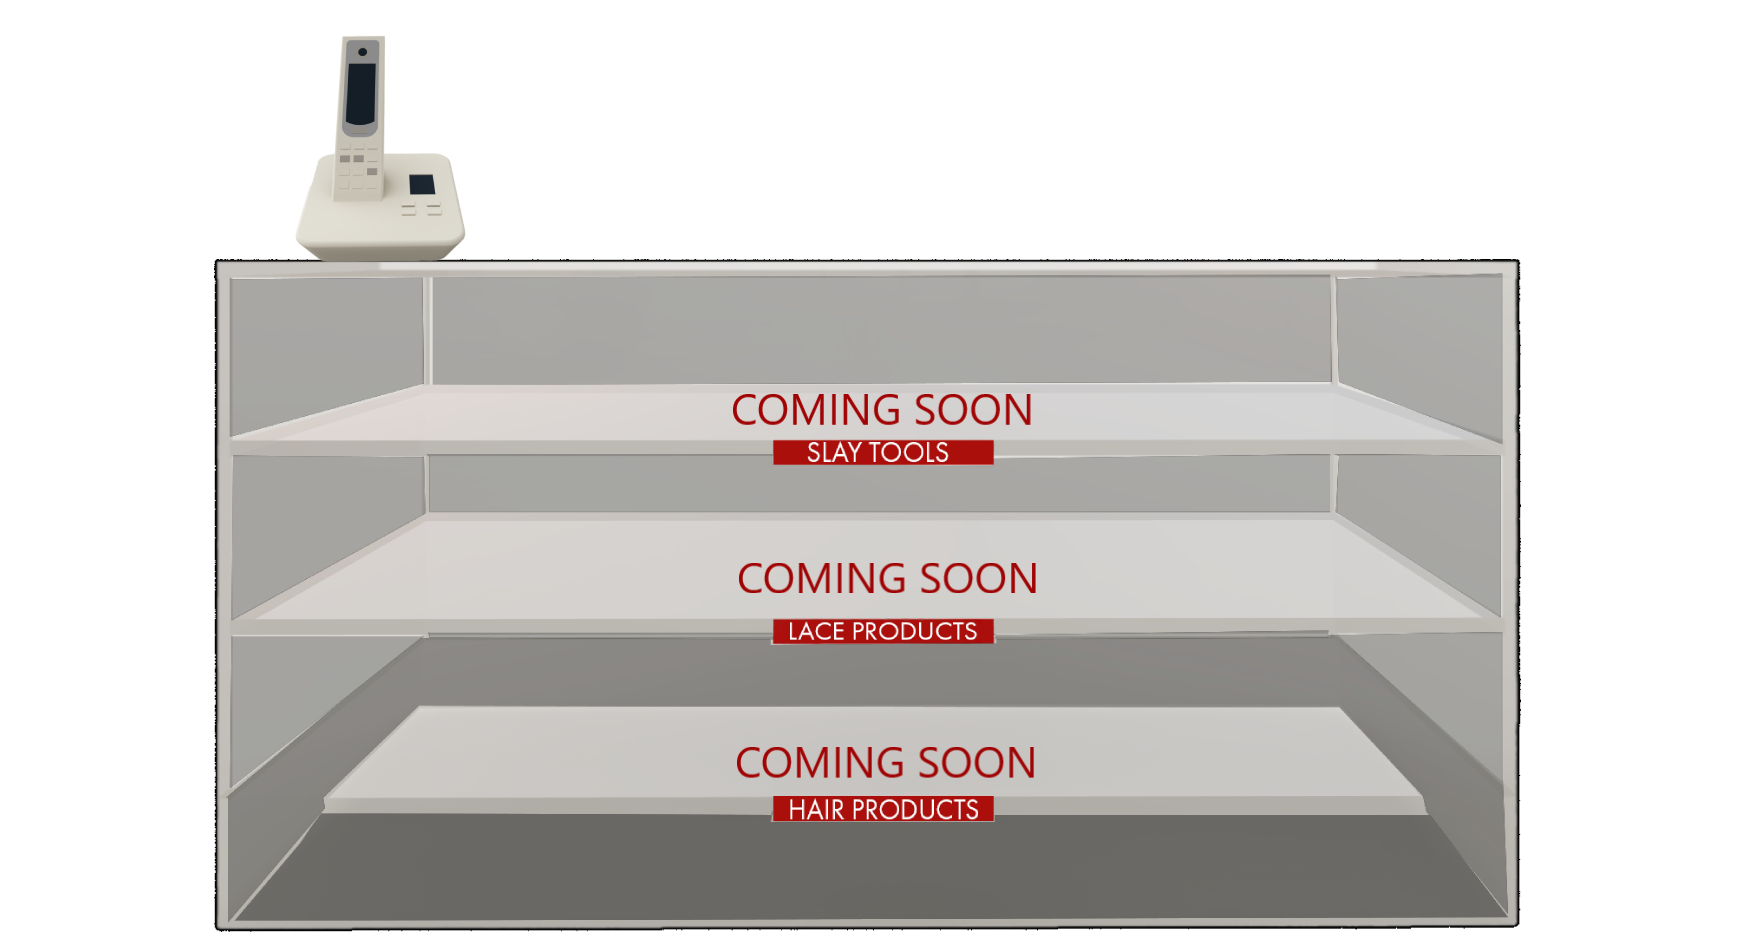
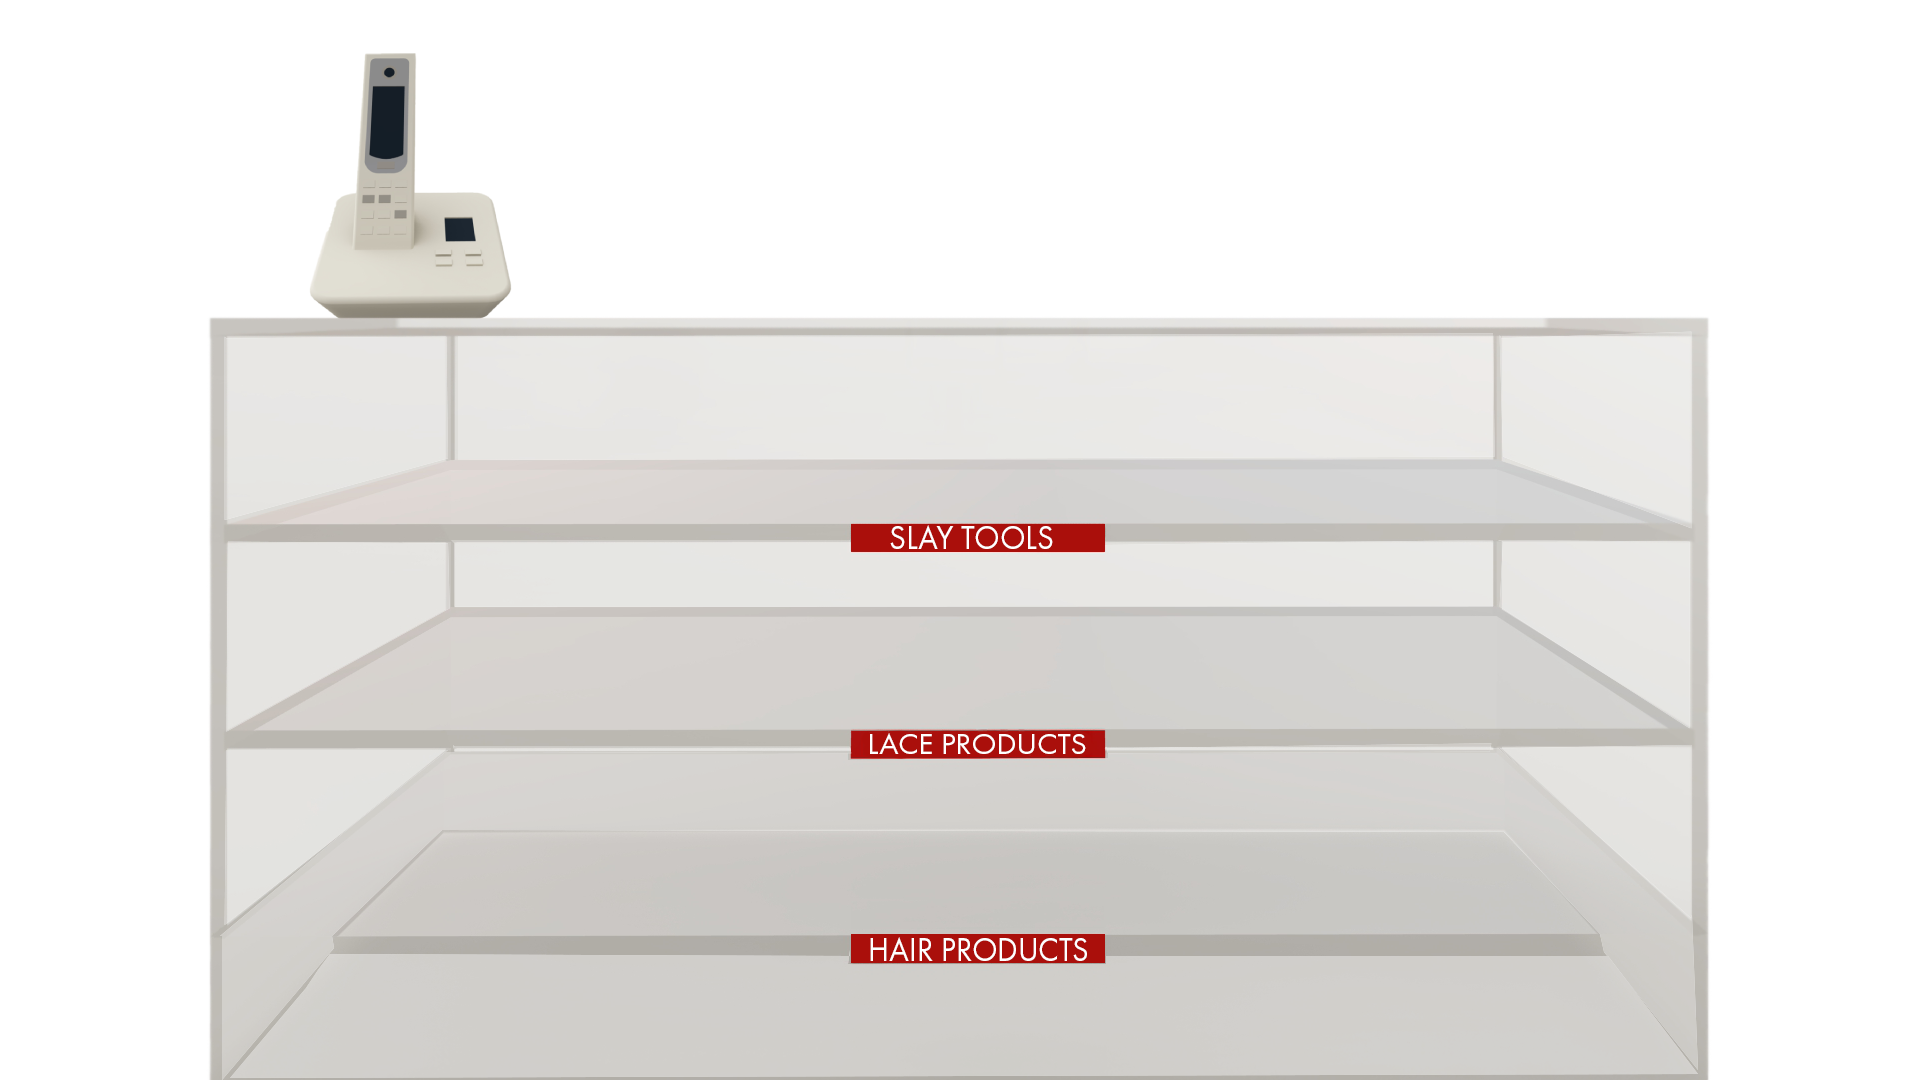
transparetn shefs

diff --git a/src/components/Shelf.js b/src/components/Shelf.js
@@ -20,7 +20,11 @@ const Shelf = ({ data }) => {
       <Box sx={styles.shelfWrapper}>
         <Image sx={styles.shelfWrapper.shelf} src={shelf} />
         <Link path={data.path} label="">
-          <Image src={data.title} label={data.title} />
+          <Image
+            // sx={data.path == "/products/custom" ? styles.customImage : ""}
+            src={data.title}
+            label={data.title}
+          />
         </Link>
       </Box>
     </Container>
@@ -34,6 +38,9 @@ const styles = {
     width: "70%",
     p: 0,
     mb: ["20px"],
+  },
+  customImage: {
+    height: "8px !important",
   },
 
   wigs: {
@@ -49,10 +56,9 @@ const styles = {
         position: "absolute",
         top: " 10px",
         backgroundColor: "background",
-        fontSize: " 10px",
+        fontSize: " 6px",
         m: "0",
         padding: " 0px 4px 0px 4px",
-        // maxWidth: "50px",
       },
       img: {
         width: "50%",
@@ -74,7 +80,7 @@ const styles = {
     a: {
       position: "absolute",
       cursor: "pointer",
-      top: ["3px"],
+      top: ["4px"],
       color: "white",
       zIndex: "5",
       fontSize: "smaller",

diff --git a/src/sections/products.js b/src/sections/products.js
@@ -2,8 +2,9 @@
 import { jsx, Box, Container, Image } from "theme-ui";
 import Logo from "assets/images/landingLogo.gif";
 // import Logo from "assets/images/Logo/FrontalSlayerLogoAnimation.mp4";
-import bottomShelf from "assets/images/bottomShelfsText.png";
+import bottomShelf from "assets/images/bottomShelfs.png";
 import flowerHolder from "assets/images/flowerHolder.PNG";
+// import flowerHolder from "assets/images/UFP.png";
 import floor from "assets/images/floor.svg";
 import top from "assets/images/top.png";
 import ptb from "assets/images/gif/products-tools-booking.gif";
@@ -88,7 +89,7 @@ const styles = {
     stroke: " #ff5b59",
     filter: "drop-shadow(0px 26px 14px #ff5b59)",
     height: "100%",
-    width: "75%",
+    width: "65%",
     position: "relative",
     top: " -29px",
   },
@@ -140,9 +141,9 @@ const styles = {
     mt: "2.5vh",
     shelf: {
       position: "absolute",
-      right: ["15%"],
+      right: ["20%"],
       bottom: [" 16vh !important"],
-      width: [" 70%", " 70%", " 70%", " 55%"],
+      width: [" 60%", " 70%", " 70%", " 55%"],
       zIndex: "3",
     },
     comingSoon: {

diff --git a/src/components/header/header.js b/src/components/header/header.js
@@ -186,6 +186,11 @@ const styles = {
           "li + li": {
             marginTop: 1,
           },
+          li: {
+            "&:first-child": {
+              mb: "-7px",
+            },
+          },
           a: {
             color: "white",
           },

diff --git a/src/components/header/dropdown.js b/src/components/header/dropdown.js
@@ -156,6 +156,7 @@ const styles = {
         borderBottom: "none",
         // my: 0,:
         // py: 0,
+        // mb: "-7px",
       },
       a: {
         color: "text",
